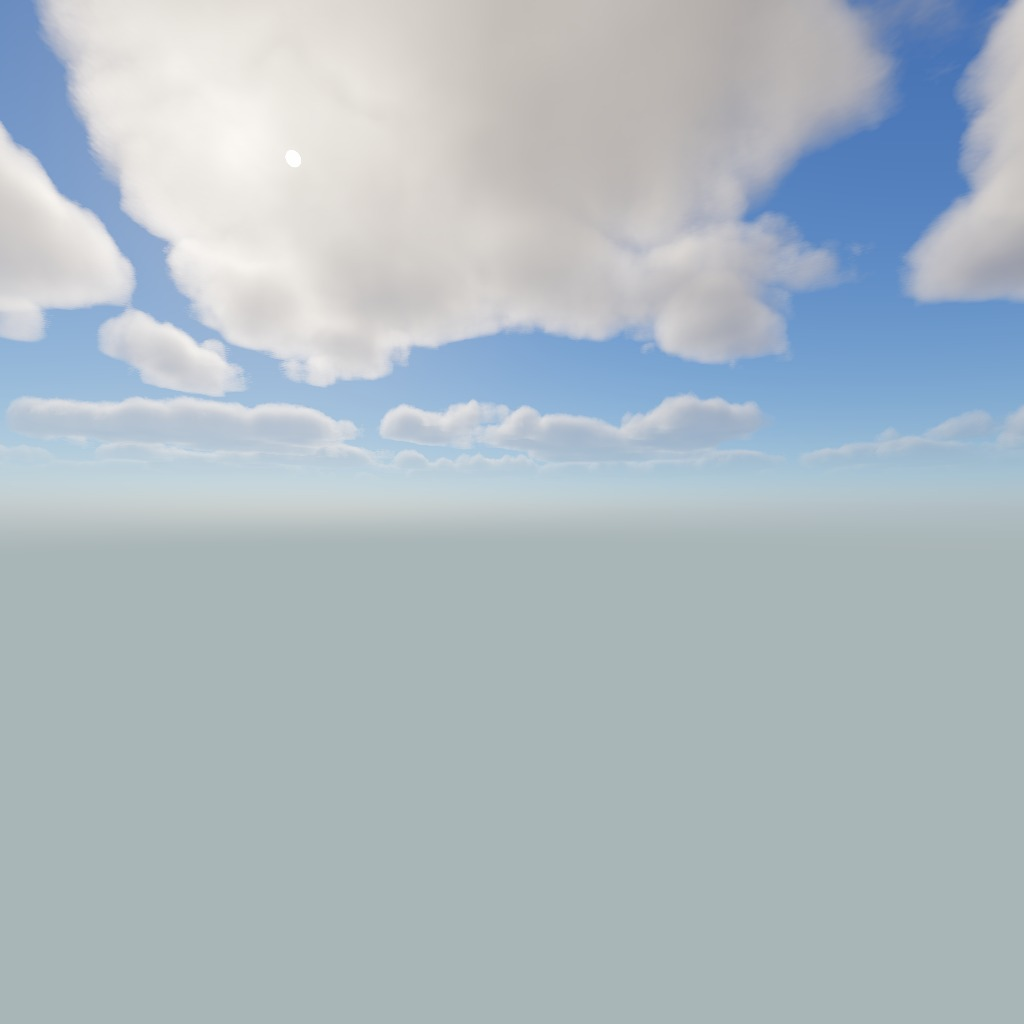
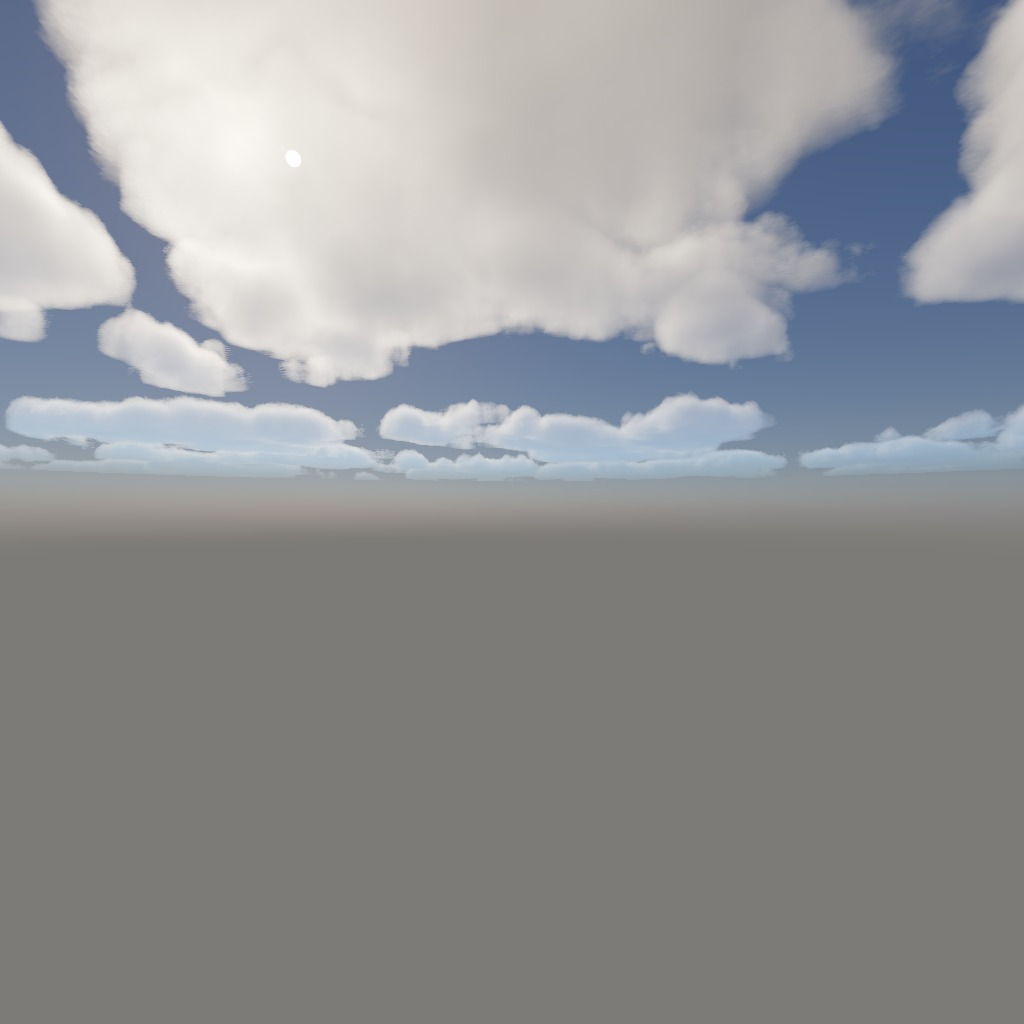
feat(render): 「普通」天空盒背景蓝调色，亮度取两版中点
- 新增 gradeSky 幂律调色，只作用于大气天空；云/日轮/透射率不动
- 参数 skyGradePower=0.699、skyGradeGain=[0.507,0.433,0.405]，取原图与参考对齐版的逐档中点
- 重烘六面立方图与指纹，天底地面色改由调色后的地平线色派生；运行时零改动
- roadmap 补 v3.49/v3.49b，pitfalls 记立方图 x 镜像、梯度匹配、中点裁定三条教训

diff --git a/docs/pitfalls.md b/docs/pitfalls.md
@@ -121,6 +121,50 @@
 
 ## 渲染与 GPU
 
+### ⚠⚠ 立方图采样方向带 **x 轴镜像**；拿屏幕色反推烘焙参数必须含它（v3.49）
+
+标定「普通」天空盒的背景色时，模型预测与真实屏幕读数对不上（同一方向差 **25~57 灰阶**），
+而链本身已用 125 组纯色立方图在真实 GPU 上验过（RMS **1.23**）。
+
+根因：three 的 `CubeTextureNode.setupUV` 对立方图采样方向取 `vec3(-x, y, z)`
+（`three.webgpu.js` 的 `uvNode.x.negate()`）⇒ **世界方位 az 的像素来自烘焙方向 `(-sin az, ·, cos az)`**。
+漏掉它就把**朝阳侧**当成背阳侧（两者天空亮度差 2 倍以上），标定结果整体偏亮。
+
+**教训**：方向类判据先用**已知纯色图**标定整条链（含采样约定），再拿它去反推参数；
+否则会把「取样取错对象」误读成「公式/参数不对」。
+
+### ⚠⚠ 「天空太亮」不能只乘 gain：要同时匹配**仰角梯度**（v3.49）
+
+用户指「普通」的蓝天过于明亮。实测参考截图（上游实玩）与本仓同口径天空：
+
+| 仰角 | 参考屏幕 | 本仓（改前） |
+|---|---|---|
+| 4° | 72,97,139 | 181,197,205 |
+| 32° | 53,73,114 | 95,141,199 |
+
+关键不是「亮 2.4 倍」而是**梯度形状不同**：参考 4°→32° 亮度只降 **1.31×**，
+本仓降 **2.35×**。单纯乘 gain（实测 ×0.25）会把天顶压到 **11,42,122**（近黑），梯度反而更陡。
+
+**处置**：对大气辐射做幂律调色 `a_c · L_c^p`（p<1 压平梯度、逐通道 a 定色相），
+实测 p=0.267 / a=[0.122,0.132,0.164] ⇒ 与参考的 RMS 从 **137.2 降到 6.9**。
+☠ **只作用于大气天空**：云 `S`、日轮、云透射率 `T` 与云的环境光回调均不过调色
+（否则云跟着变暗，不再是白云）；天底半的地面色必须由**调色后**的地平线色派生，否则地平线出阶梯。
+
+### ⚠⚠ 「向参考图对齐」不等于用户要的亮度：两端点取中点才是裁定（v3.49b）
+
+按上条把天空拟合到参考截图后（RMS 6.9，数值上几乎完美），用户实玩仍裁定**又太暗**：
+
+> 「处于最开始你调试的亮度起点，到现在背景天空颜色的亮度为终点，调制到中间的某个亮度」
+
+⇒ 目标不再是参考图，而是**两个已交付版本的逐档中点**：端点 A = 上版原图（`git show HEAD:...`），
+端点 B = 当前图，各按同一口径量 4~40° 十档屏幕色后逐通道取平均。拟合得 p=0.699 / a=[0.507,0.433,0.405]。
+
+☠ **p 必须跟着抬**（0.267 → 0.699）：中点目标保留了更多原图的仰角梯度
+（4°→40° 降幅：A **1.46×** / B **2.07×** ⇒ 中点 **1.68×**）。只抬 gain 不抬 p 会把低仰角抬过头、高仰角仍偏暗。
+
+**教训**：参考图只能定「方向与色相」，绝对亮度的验收人是用户。拟合得再准也不能代替实玩；
+拿到「太亮/太暗」的往返反馈时，把两版产物都量成同口径的档表、取中点作新目标，比再猜一个 gain 便宜。
+
 ### ⚠⚠ 烘焙标定必须用**未经任何缩放的原始辐射值**（v3.48）
 
 给「普通」天空盒加体积云时，为了定色调映射曝光，写了一个 Node 探针扫描。
